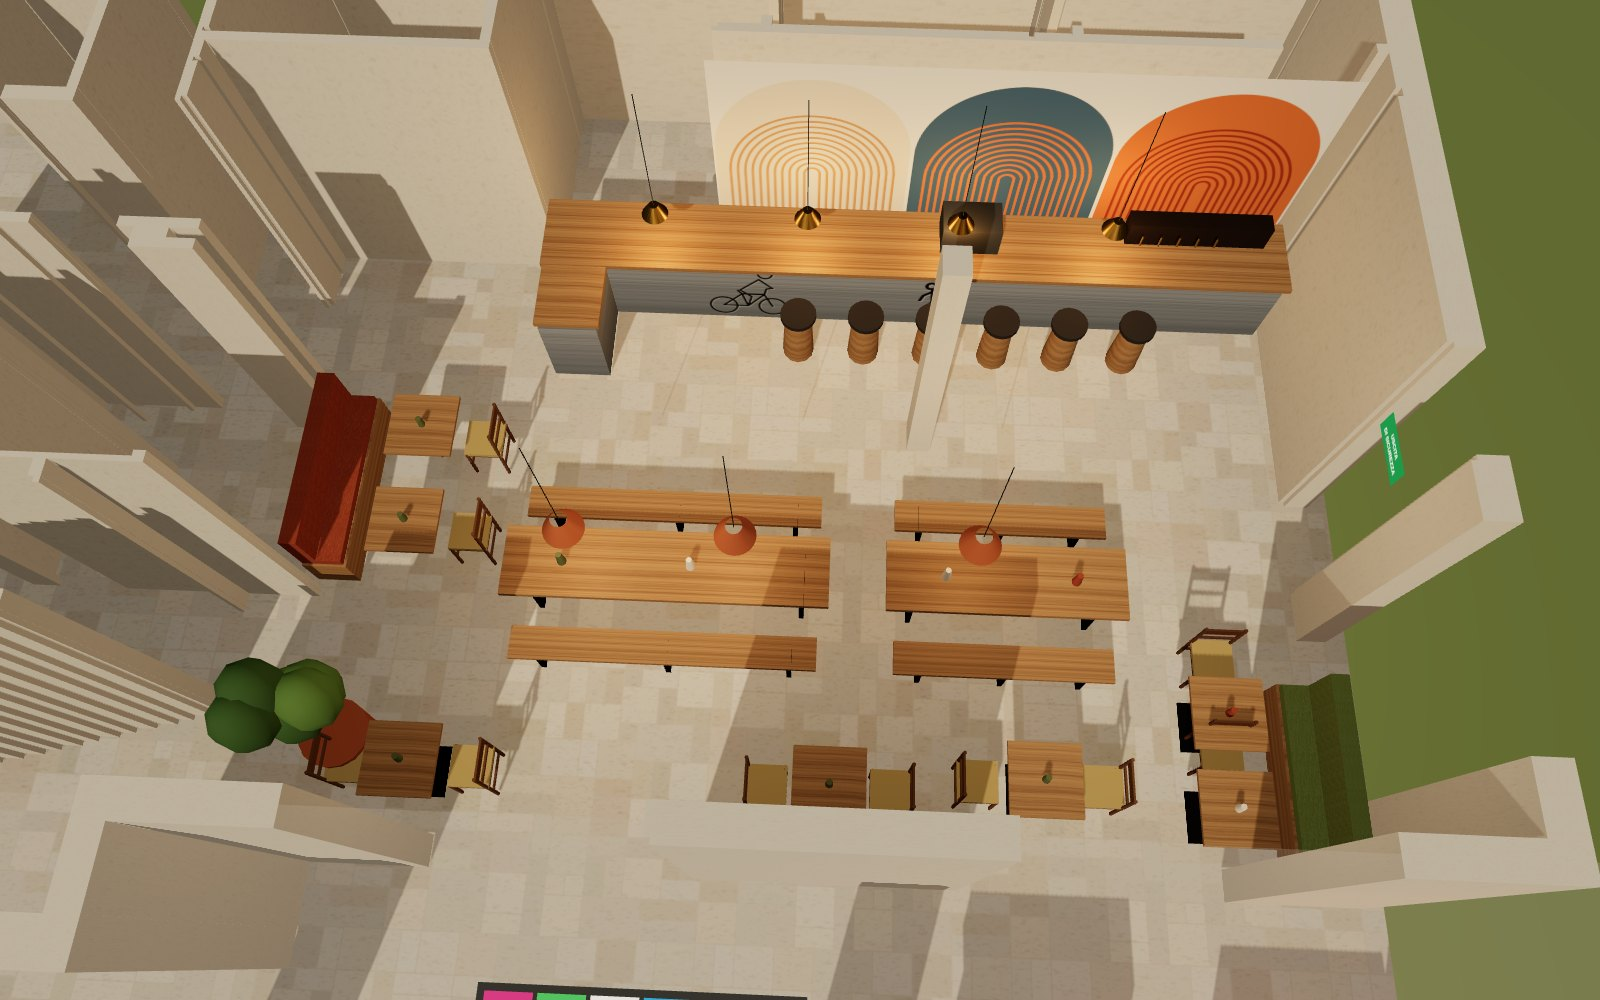
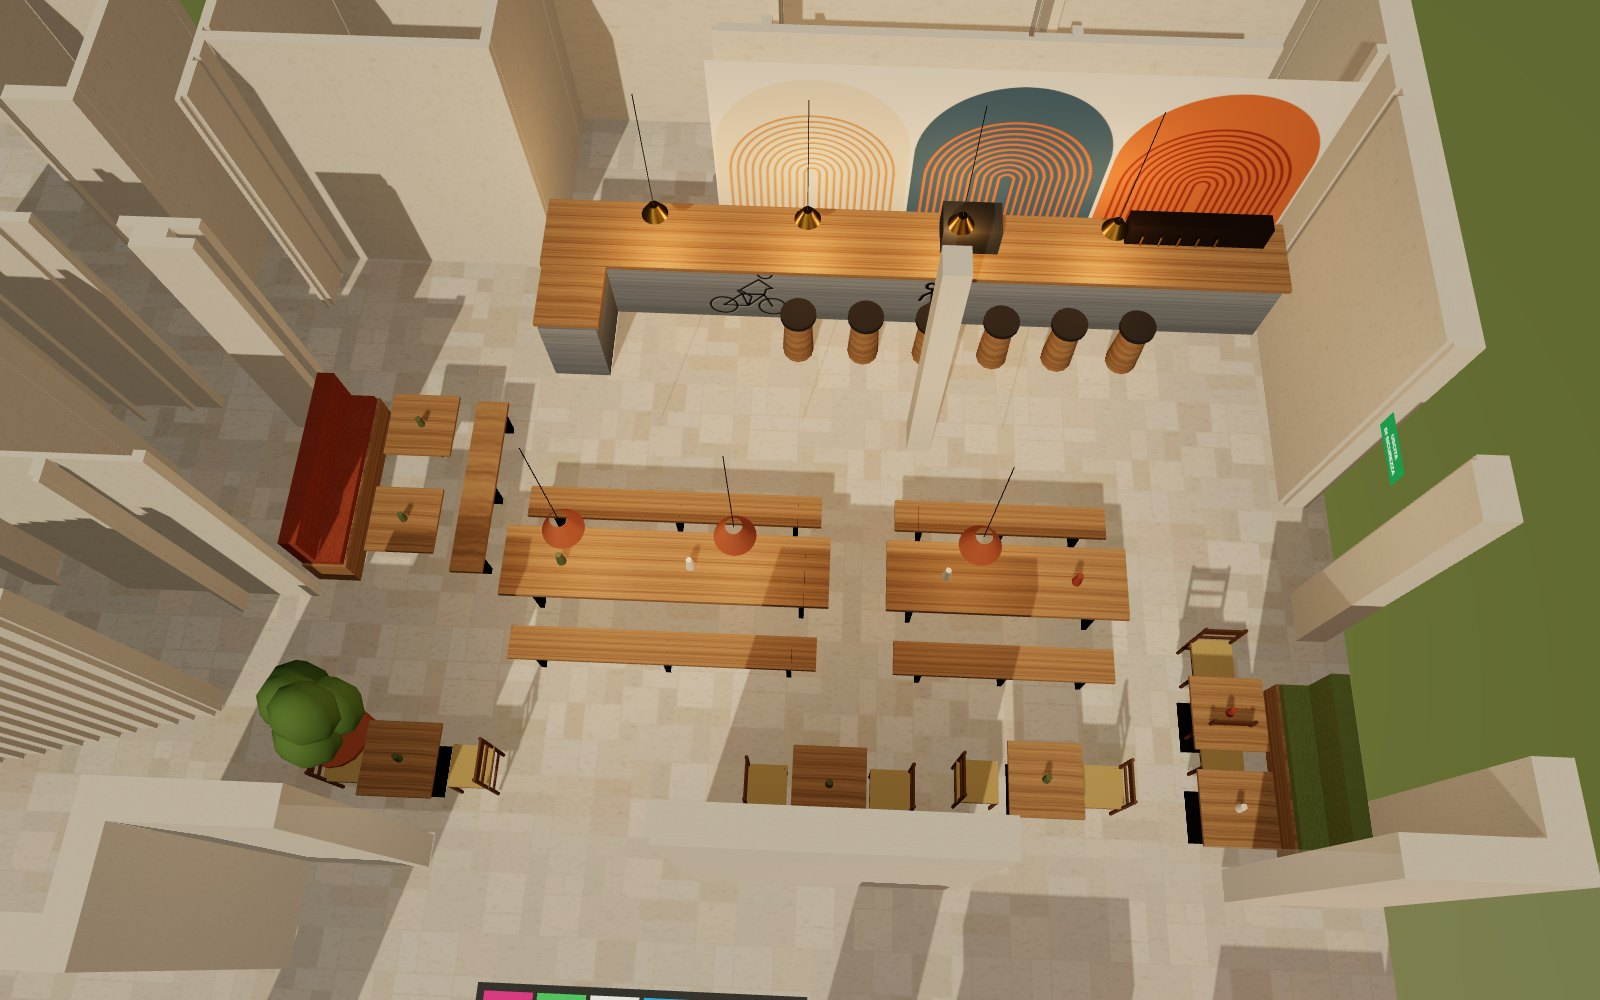
Sala: panchina di fronte alla seduta rossa al posto delle sedie
Claude-Session: https://claude.ai/code/session_01QZXxqty357DcebAAL5Vpaf

Changed region(s): [[0.125, 0.651, 0.25, 0.775], [0.2812, 0.372, 0.3438, 0.589]]

diff --git a/render-3d/sala-tavoli-misti/prova-tavolo-piu-piccolo/pianoterra.js b/render-3d/sala-tavoli-misti/prova-tavolo-piu-piccolo/pianoterra.js
@@ -391,7 +391,9 @@ else { box(P(210), P(1450), HS, HS + 0.06, P(840), P(1110), M('#e9e2d6', { trans
   smallT(1340, 720, false); smallT(1340, 790, false);
   // second banquette on the west wall (terracotta velvet), two little tables with a chair facing it
   { const bq2 = boucle('#a8502c'); box(P(604), P(640), 0, 0.45, P(470), P(625), oakM); box(P(604), P(638), 0.45, 0.55, P(472), P(623), bq2); box(P(604), P(618), 0.55, 1.05, P(472), P(623), bq2);
-    for (const pz of [505, 590]) { const x = P(690), z = P(pz); box(x - 0.35, x + 0.35, 0.72, 0.76, z - 0.35, z + 0.35, oakM); cyl(x, z, 0.04, 0, 0.72, ironM, 8); straw(x + 0.6, z, -Math.PI / 2, 0); cyl(x, z, 0.04, 0.76, 0.9, M('#6f7448'), 10, 0.03); } }
+    for (const pz of [505, 590]) { const x = P(690), z = P(pz); box(x - 0.35, x + 0.35, 0.72, 0.76, z - 0.35, z + 0.35, oakM); cyl(x, z, 0.04, 0, 0.72, ironM, 8); cyl(x, z, 0.04, 0.76, 0.9, M('#6f7448'), 10, 0.03); }
+    // a wooden bench on the other side instead of two chairs
+    { const bx = P(690) + 0.62; box(bx - 0.17, bx + 0.17, 0.42, 0.47, P(470), P(625), oakM); for (const zz of [P(480), P(548), P(612)]) box(bx - 0.14, bx + 0.14, 0, 0.42, zz - 0.03, zz + 0.03, ironM); } }
   for (const [x, z] of [[P(660), P(760)]]) { cyl(x, z, 0.3, 0, 0.55, M('#b9673d'), 16, 0.34); for (let i = 0; i < 7; i++) { const lf = new THREE.Mesh(new THREE.SphereGeometry(0.28, 8, 6), M(i % 2 ? '#4f6e3a' : '#6a8a45')); lf.scale.y = 1.5; lf.position.set(x + (rnd() - 0.5) * 0.5, 1.0 + rnd() * 0.9, z + (rnd() - 0.5) * 0.5); scene.add(lf); } } }
 // PORTICO as lounge: few long floor cushions, dance floor flush with the floor, piano, fireplace
 { const pm = [boucle('#a3262a'), boucle('#2f4a6e'), boucle('#1f5c5a'), boucle('#d98a2b')];
@@ -408,7 +410,7 @@ const sun = new THREE.DirectionalLight('#fff0d8', AERIAL ? 2.4 : 1.4); sun.posit
 sun.castShadow = true; sun.shadow.mapSize.set(4096, 4096); Object.assign(sun.shadow.camera, { left: -16, right: 16, top: 16, bottom: -16, near: 1, far: 60 }); sun.shadow.bias = -0.0005; scene.add(sun);
 if (!AERIAL) for (const [x, z] of [[11, 7], [16, 7], [11, 9], [16, 9]]) { const l = new THREE.PointLight('#ffe2b8', 1.6, 0, 2); l.position.set(x, 3.0, z); scene.add(l); }
 scene.background = new THREE.Color('#2b3a2f');
-const CAMS = { panche: [[17.0, 1.6, 8.8], [11.5, 0.6, 7.0], 64], sala2: [[11.6, 1.75, 5.0], [15.5, 0.9, 9.8], 68], salatop: [[13.0, 11.5, 11.5], [12.8, 0, 6.8], 48], alto: [[9.3, 27, 17.5], [9.3, 0, 7.4], 42], bar: [[14.2, 1.6, 9.6], [14.2, 1.4, 3.6], 68], sala: [[17.6, 1.7, 9.9], [9.5, 1.1, 5.0], 66], portico: [[3.6, 1.6, 13.6], [14, 0.9, 12.6], 64] };
+const CAMS = { rossa: [[10.6, 1.6, 8.6], [7.9, 0.6, 6.9], 62], sala2: [[11.6, 1.75, 5.0], [15.5, 0.9, 9.8], 68], salatop: [[13.0, 11.5, 11.5], [12.8, 0, 6.8], 48], alto: [[9.3, 27, 17.5], [9.3, 0, 7.4], 42], bar: [[14.2, 1.6, 9.6], [14.2, 1.4, 3.6], 68], sala: [[17.6, 1.7, 9.9], [9.5, 1.1, 5.0], 66], portico: [[3.6, 1.6, 13.6], [14, 0.9, 12.6], 64] };
 const k = CAMS[VIEW] || CAMS.alto;
 const camera = new THREE.PerspectiveCamera(k[2], W / H, 0.05, 200); camera.position.set(...k[0]); camera.lookAt(...k[1]);
 renderer.render(scene, camera);
